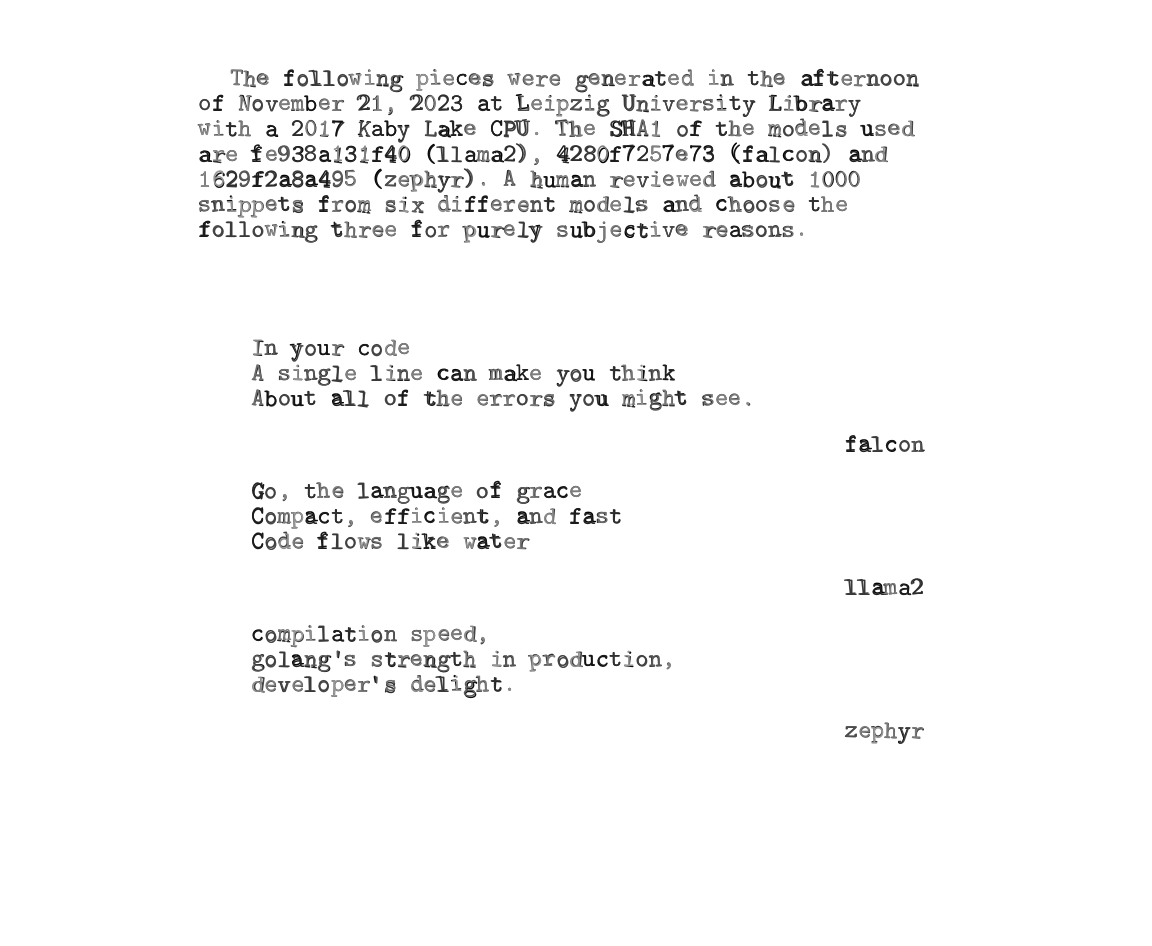
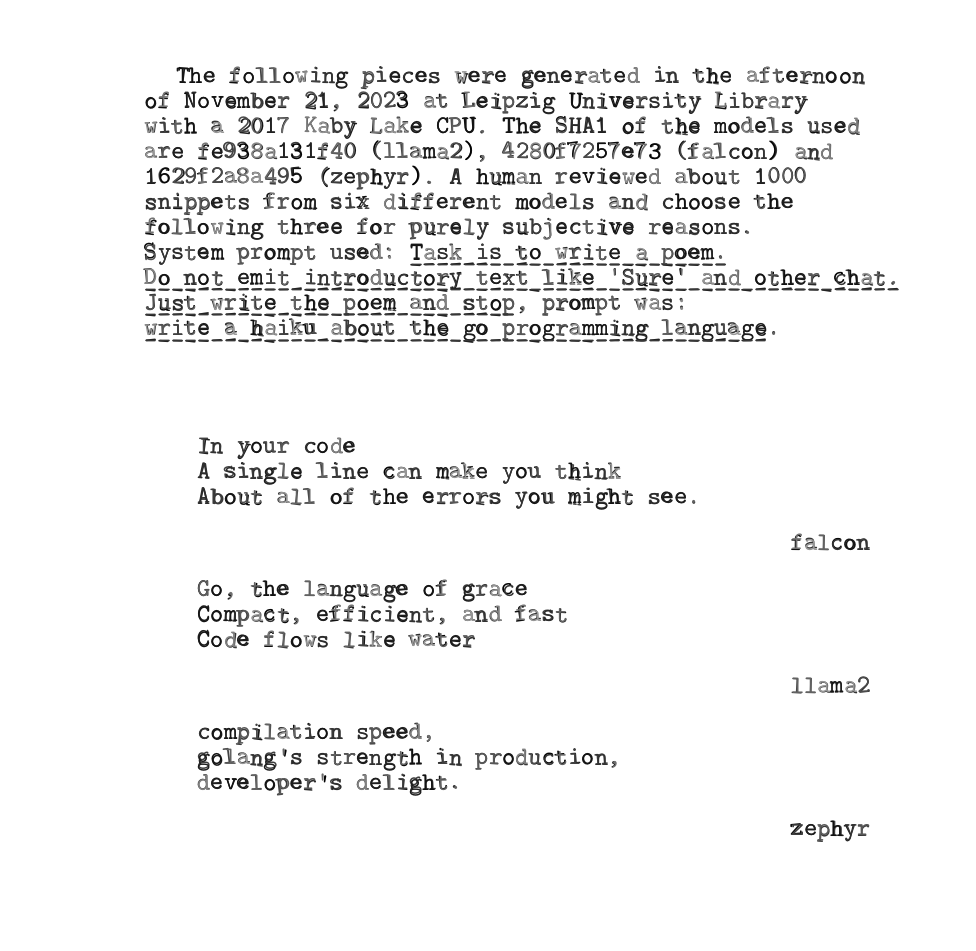
update img

diff --git a/static/poetry/main.tex b/static/poetry/main.tex
@@ -13,8 +13,14 @@
 
 The following pieces were generated in the afternoon of November 21, 2023 at
 Leipzig University Library with a 2017 Kaby Lake CPU. The SHA1 of the models
-used are fe938a131f40 (llama2), 4280f7257e73 (falcon) and 1629f2a8a495 (zephyr). A human reviewed about 1000 snippets from six different models and choose the
-following three for purely subjective reasons.
+used are fe938a131f40 (llama2), 4280f7257e73 (falcon) and 1629f2a8a495
+(zephyr). A human reviewed about 1000 snippets from six different models and
+choose the following three for purely subjective reasons. System prompt used:
+\underline{Task is to write a poem.}
+\underline{Do not emit introductory text like 'Sure' and other chat.}
+\underline{Just write the poem and stop}, prompt was: \underline{write a haiku
+    about the go programming language}.
+
 
 \vspace{1.2cm}
 

diff --git a/content/posts/meetup-38-wrapup.md b/content/posts/meetup-38-wrapup.md
@@ -18,7 +18,7 @@ We had a great presentation from
 building a mission critical query caching database (MemoryDB) in Go and the
 challenges involved.
 
-A challenge is the sheer variety of query parameters and near overlapping
+A challenge is the variety of query parameters and near overlapping
 values. A key for performance is to express various parameters values (e.g.
 dates) with the help of [BitMaps](https://en.wikipedia.org/wiki/Bit_array),
 especially [Roaring Bitmaps](https://r-libre.teluq.ca/1402/1/1709.07821.pdf).
@@ -64,7 +64,9 @@ type Offer struct {
 
 This is now a much more compact, GC-friendly struct that will require
 additional object lookups for respective identifiers but would reduce GC load
-significantly, when dealing with millions of objects. Simple, effective.
+significantly, when dealing with millions of objects. Simple, effective. (are
+these topics of [interest to
+you](https://jobs.check24.de/de/jobs/?locations=leipzig&categories=it-web-development)?)
 
 ## Testdriving OLLAMA
 
@@ -72,7 +74,7 @@ Another, lightning talk was concerned with [Testdriving
 OLLAMA](https://github.com/miku/localmodels). A human selection of three Go
 programming related haiku generated on a 15W TDP [2017
 CPU](https://www.intel.com/content/www/us/en/products/sku/122589/intel-core-i78550u-processor-8m-cache-up-to-4-00-ghz/specifications.html).
-Note: A typical haiku follows the 5-7-5 scheme.
+Note: A typical haiku follows the [5-7-5](https://en.wikipedia.org/wiki/Haiku) scheme.
 
 ![](/images/three-genai-haiku.png)
 
